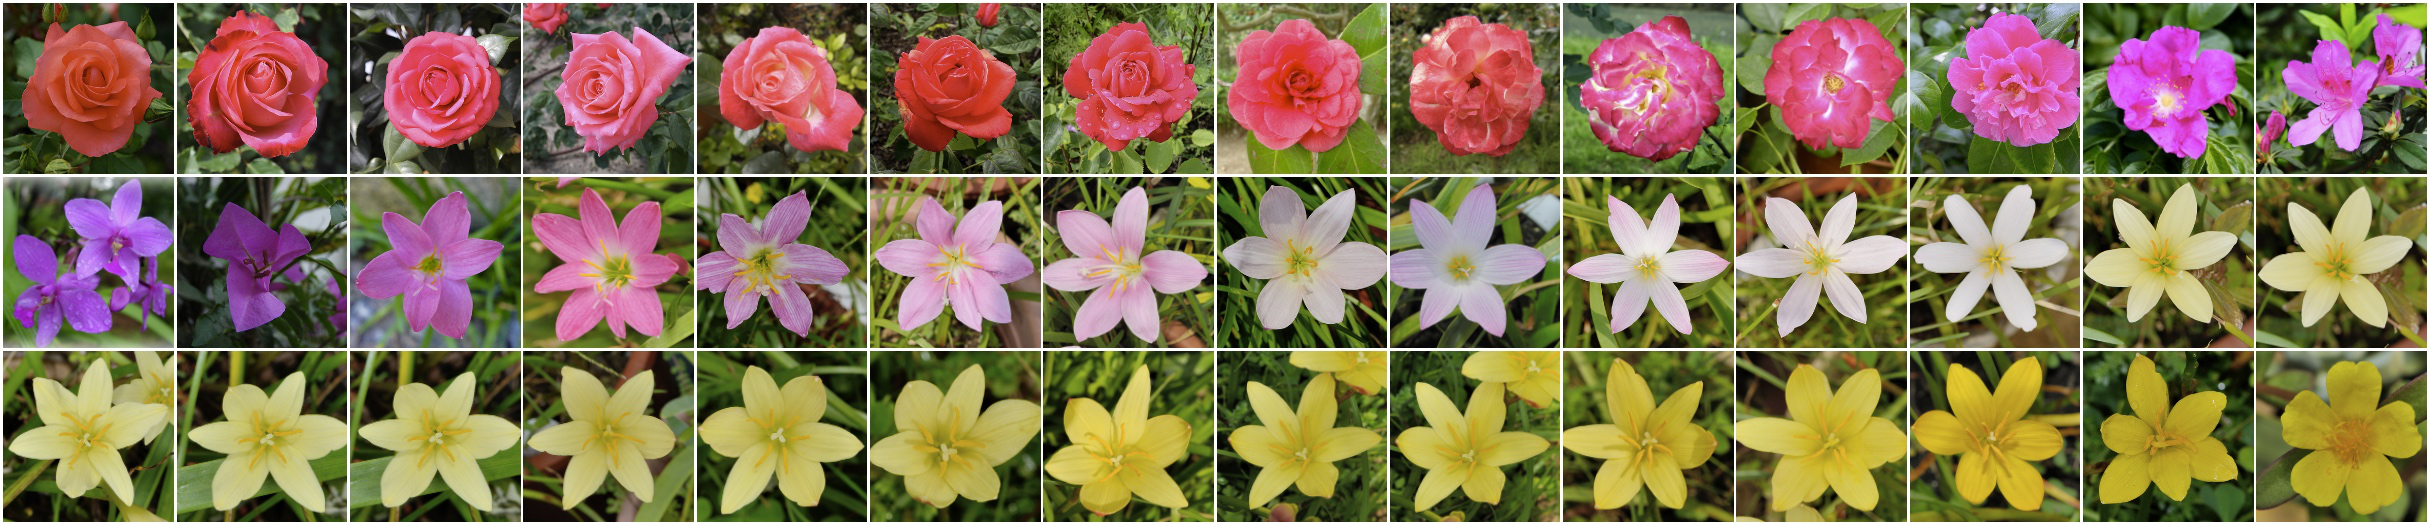
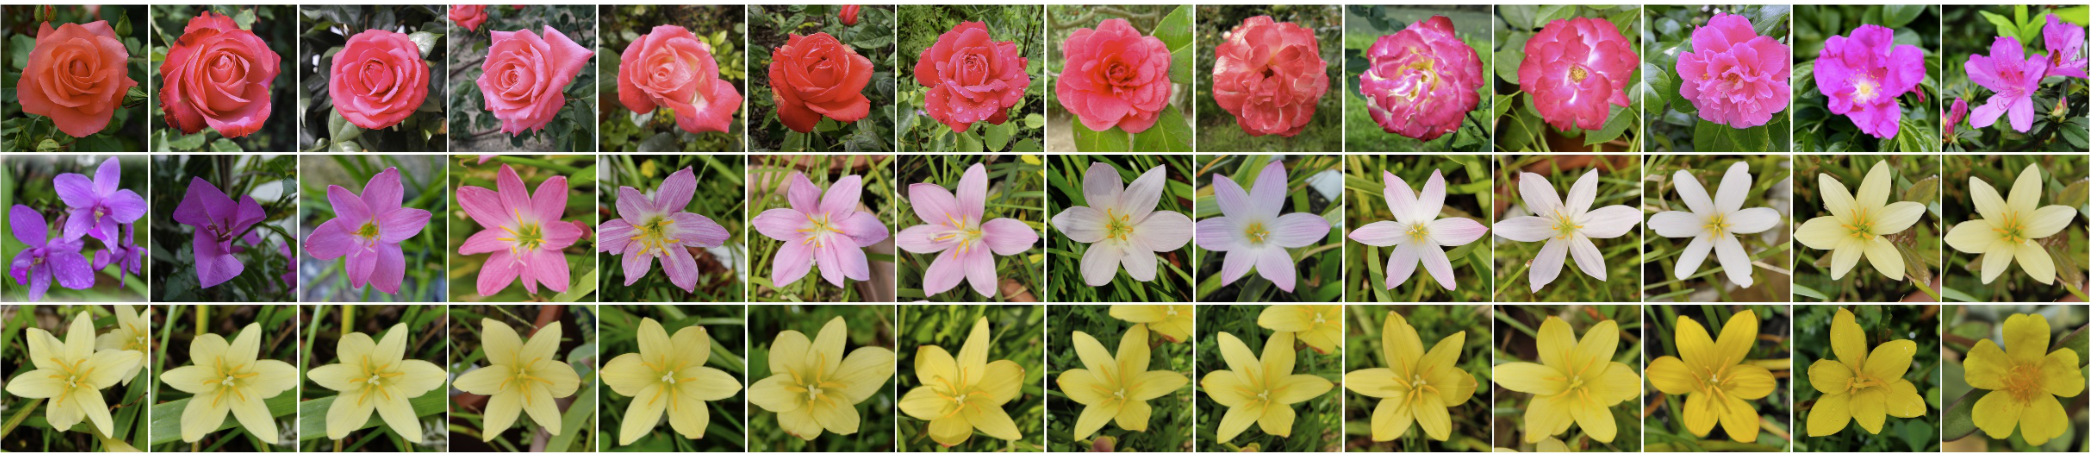
feat: integrate DocLayout-YOLO for layout-aware PDF figure extraction

Changed region(s): [[0.0, 0.0, 1.0, 1.0], [0.9321, 0.8596, 0.9632, 0.8904], [0.9321, 0.5526, 0.9632, 0.5833]]

diff --git a/IngestionPipeline/extract.py b/IngestionPipeline/extract.py
@@ -1,7 +1,17 @@
 import os
 import fitz
 import pdfplumber
+from PIL import Image
 from docx import Document
+from doclayout_yolo import YOLOv10
+
+
+#Adding Model for Layout Detection
+LAYOUT_MODEL = YOLOv10("../models/doclayout_yolo_docstructbench_imgsz1024.pt")
+
+###########################################################################
+#---------------------Helper Functions-----------------------------
+###########################################################################
 
 def create_document(document_name: str, file_type: str):
     return {
@@ -19,6 +29,7 @@ def create_page(page_number: int, text: str = ""):
     """
     page = {
         "page_number": page_number,
+        "regions": [],
         "text_blocks": [],
         "tables": [],
         "figures": [],
@@ -55,55 +66,154 @@ def extract_pdf_tables(page):
 
     return tables
 
+###########################################################################
+#---------------------LAYOUT DETECTION FUNCTIONS---------------------------
+###########################################################################
 
-def extract_pdf_figures(page, document_name):
+def detect_layout(fitz_page):
+    """
+    Detect document layout regions (paragraphs, tables,
+    figures, captions, formulas, etc.)
+
+    Args:
+        fitz_page: PyMuPDF page object
+
+    Returns:
+        List[dict]: Detected layout regions
+    """
+
+    pix = fitz_page.get_pixmap(dpi=200)
+
+    image = Image.frombytes(
+        "RGB",
+        (pix.width, pix.height),
+        pix.samples
+    )
+
+    results = LAYOUT_MODEL.predict(image)
+
+    regions = []
+
+    if not results:
+        return regions
+
+    result = results[0]
+
+    for box in result.boxes:
+
+        cls_id = int(box.cls)
+        label = result.names[cls_id]
+
+        x1, y1, x2, y2 = box.xyxy[0].tolist()
+
+        regions.append({
+            "id": len(regions),
+            "type": label,
+            "bbox": [x1, y1, x2, y2],
+            "confidence": float(box.conf)
+        })
+
+    return regions
+
+def crop_region(fitz_page, bbox, output_path):
+    """
+    Crop a layout region from a PDF page using the bounding box returned
+    by DocLayout-YOLO.
+    """
+
+    # Render the page at the same DPI used for layout detection
+    render_pix = fitz_page.get_pixmap(dpi=200)
+
+    image_width = render_pix.width
+    image_height = render_pix.height
+
+    pdf_width = fitz_page.rect.width
+    pdf_height = fitz_page.rect.height
+
+    scale_x = pdf_width / image_width
+    scale_y = pdf_height / image_height
+
+    x1, y1, x2, y2 = bbox
+    print(f"PDF Page Size : {fitz_page.rect}")
+    print(f"Rendered Size : {image_width} x {image_height}")
+    print(f"YOLO BBox     : {bbox}")
+    # Convert image coordinates -> PDF coordinates
+    rect = fitz.Rect(
+        x1 * scale_x,
+        y1 * scale_y,
+        x2 * scale_x,
+        y2 * scale_y,
+    )
+
+    # Clip to page boundaries
+    rect = rect & fitz_page.rect
+
+    # Skip invalid boxes
+    if rect.is_empty or rect.width <= 1 or rect.height <= 1:
+        return False
+
+    pix = fitz_page.get_pixmap(
+        clip=rect,
+        dpi=300
+    )
+
+    pix.save(output_path)
+    return True
+
+def extract_pdf_figures(fitz_page, document_name, regions):
+
     figures = []
-    image_list = page.get_images(full=True)
-
-    if not image_list:
-        return figures
 
     document_stem = os.path.splitext(document_name)[0]
-    figure_dir = os.path.join("figures",document_stem)
+
+    figure_dir = os.path.join(
+        "figures",
+        document_stem
+    )
+
     os.makedirs(figure_dir, exist_ok=True)
 
-    for idx, image in enumerate(image_list):
-        xref = image[0]
-        pix = fitz.Pixmap(page.parent, xref)
+    figure_id = 0
 
-        if pix.n < 5:
-            image_path = os.path.join(
-                figure_dir,
-                f"page_{page.number+1}_figure_{idx+1}.png"
-            )
+    for region in regions:
 
-            pix.save(image_path)
+        if region["type"] != "figure":
+            continue
 
-        else:
-            rgb = fitz.Pixmap(fitz.csRGB, pix)
-
-            image_path = os.path.join(
-                figure_dir,
-                f"page_{page.number+1}_figure_{idx+1}.png"
-            )
-
-            rgb.save(image_path)
-            rgb = None
-
-        pix = None
-
-        figures.append(
-            {
-                "id": idx,
-                "xref": xref,
-                "page_number": page.number + 1,
-                "image_path": image_path,
-                "bbox": None,
-                "caption": None,
-                "ocr_text": None,
-                "metadata": {}
-            }
+        image_path = os.path.join(
+            figure_dir,
+            f"page_{fitz_page.number+1}_figure_{figure_id+1}.png"
         )
+
+        success = crop_region(
+                fitz_page,
+                region["bbox"],
+                image_path
+            )
+        if not success:
+            continue
+
+        figures.append({
+
+            "id": figure_id,
+
+            "page_number": fitz_page.number + 1,
+
+            "image_path": image_path,
+
+            "bbox": region["bbox"],
+
+            "confidence": region["confidence"],
+
+            "caption": None,
+
+            "ocr_text": None,
+
+            "metadata": {}
+
+        })
+
+        figure_id += 1
 
     return figures
 
@@ -119,10 +229,21 @@ def extract_pdf(pdf_path):
 
     for page_number, (fitz_page, plumber_page) in enumerate(zip(pdf, plumber_pdf.pages),start=1):
         text = fitz_page.get_text().strip()
-        tables = extract_pdf_tables(plumber_page)
-        figures = extract_pdf_figures(fitz_page,document_name)
-
         page_data = create_page(page_number, text)
+
+        regions = detect_layout(fitz_page)
+        page_data["regions"] = regions
+        print(f"\nLayout Regions (Page {page_number})")
+
+        for region in regions:
+            print(
+                f"{region['type']:<15}"
+                f"{region['confidence']:.2f}"
+            )
+
+        tables = extract_pdf_tables(plumber_page)
+        figures = extract_pdf_figures(fitz_page, document_name, regions)
+
         page_data["tables"] = tables
         page_data["figures"] = figures
 
